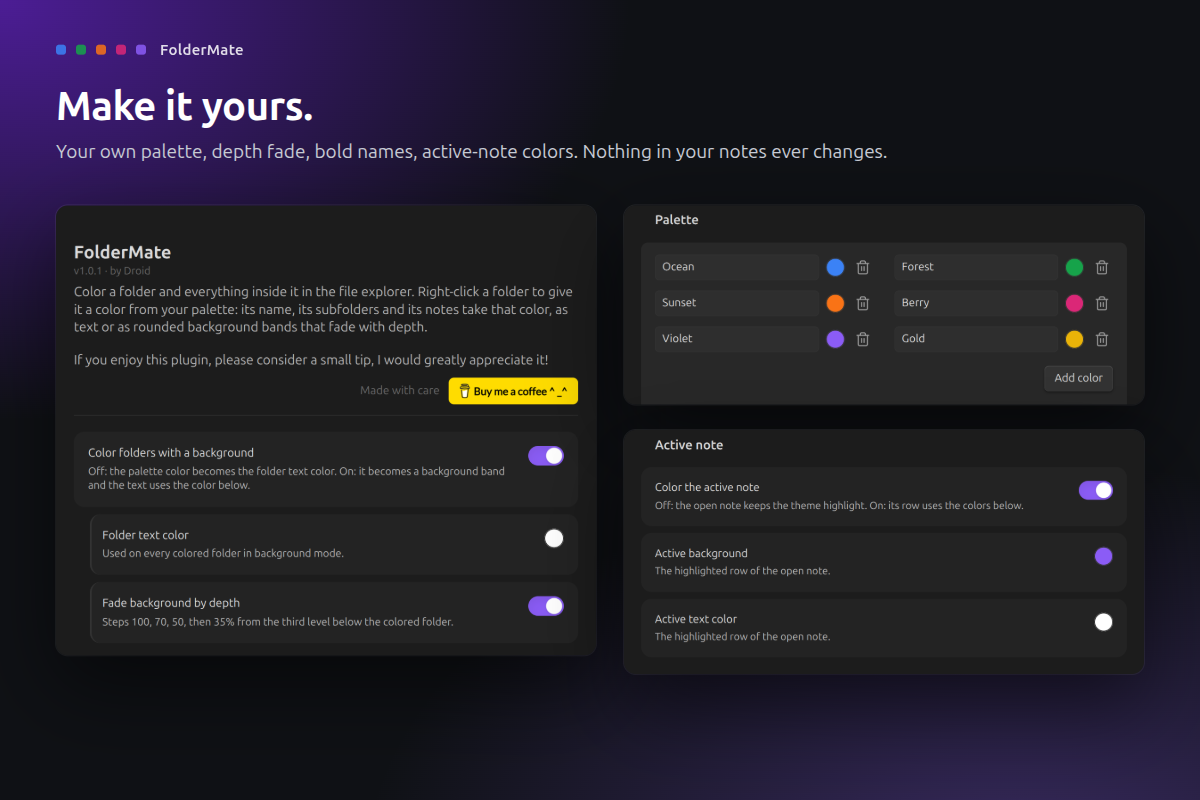
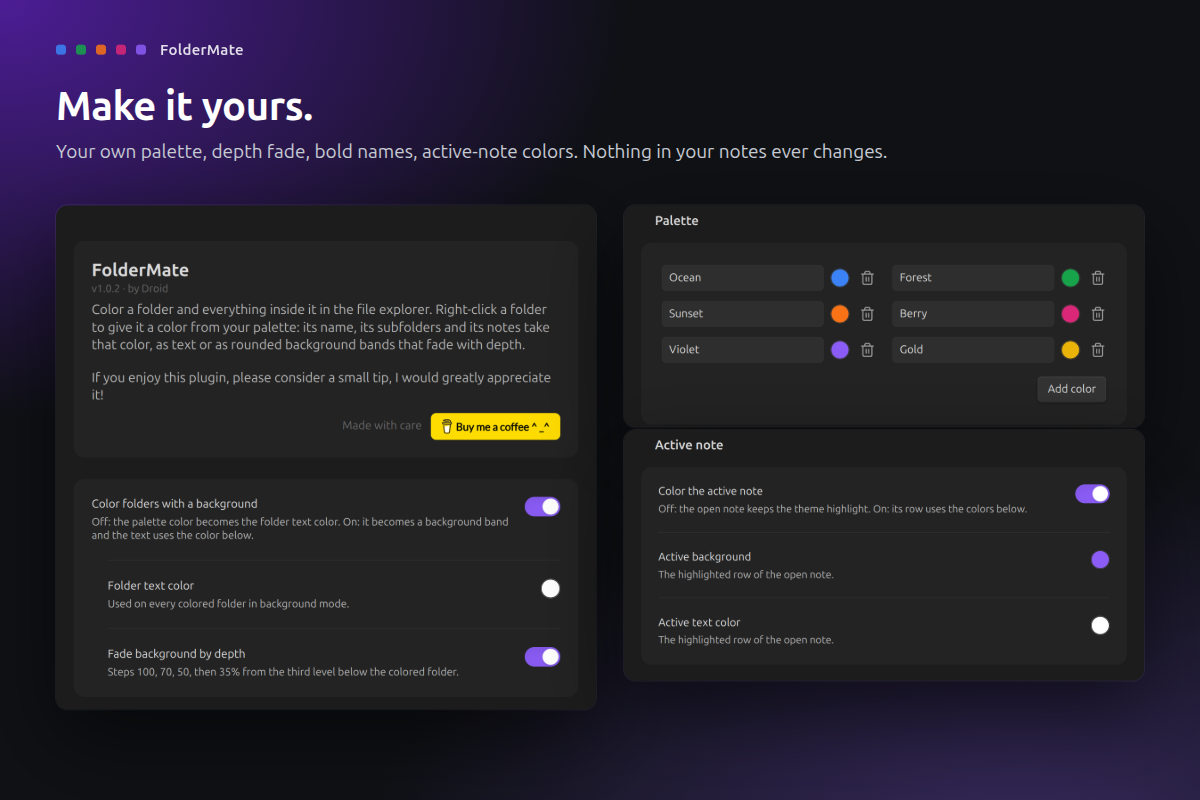
FolderMate 1.0.2: declarative settings, directory review fixes, attested releases

diff --git a/src/settings.ts b/src/settings.ts
@@ -1,6 +1,6 @@
-import { App, Modal, PluginSettingTab, Setting } from 'obsidian'
+import { App, Modal, PluginSettingTab, Setting, type SettingDefinitionItem } from 'obsidian'
 import type FolderMatePlugin from './main'
-import { addEntry, removeEntry, usageCount } from './core/settings'
+import { addEntry, removeEntry, usageCount, type TintSettings } from './core/settings'
 import { addHslPicker } from './hslPicker'
 import { COFFEE_BUTTON, COFFEE_URL } from './coffeeButton'
 
@@ -10,21 +10,77 @@ class ConfirmModal extends Modal {
     this.setTitle('Delete color?')
     this.contentEl.createEl('p', { text: this.msg })
     new Setting(this.contentEl)
-      .addButton(b => b.setButtonText('Delete').setWarning().onClick(() => { this.onYes(); this.close() }))
+      .addButton(b => b.setButtonText('Delete').setDestructive().onClick(() => { this.onYes(); this.close() }))
       .addButton(b => b.setButtonText('Cancel').onClick(() => this.close()))
   }
   onClose() { this.contentEl.empty() }
 }
 
+type Key = Exclude<keyof TintSettings, 'schemaVersion' | 'palette' | 'folderColors'> | 'background'
+
+// Declarative settings (Obsidian 1.13+), so every row shows up in Obsidian's settings search. Plain toggles and sliders are
+// `control` rows; rows with the color picker or an indent (tt-sub) are `render` rows built as before.
 export class TintSettingTab extends PluginSettingTab {
-  constructor(app: App, private plugin: FolderMatePlugin) { super(app, plugin) }
+  constructor(app: App, private plugin: FolderMatePlugin) { super(app, plugin); this.containerEl.addClass('tt-settings') }
 
-  display() {
-    const { containerEl: el } = this
+  getControlValue(key: string): unknown {
     const s = this.plugin.cfg
-    el.empty()
+    return key === 'background' ? s.colorMode === 'background' : s[key as keyof TintSettings]
+  }
 
-    // Header, the same layout as MindmapMate and LevelMate: name, version and author, what it does, tip line, coffee button.
+  setControlValue(key: string, value: unknown) {
+    const s = this.plugin.cfg as unknown as Record<string, unknown>
+    if (key === 'background') this.plugin.cfg.colorMode = value ? 'background' : 'text'
+    else s[key] = value
+    if (key === 'activeEnabled' && value) { this.plugin.cfg.activeBg ||= '#3B82F6'; this.plugin.cfg.activeText ||= '#FFFFFF' } // colors the pickers already show, so it works at once
+    this.plugin.changed()
+    this.refreshDomState() // shows, hides and grays out the rows that depend on this one
+  }
+
+  getSettingDefinitions(): SettingDefinitionItem<Key>[] {
+    const s = this.plugin.cfg
+    const changed = () => this.plugin.changed()
+    const picker = (name: string, desc: string, get: () => string, set: (v: string) => void, visible: () => boolean, sub = true) => ({
+      name, desc, visible,
+      render: (row: Setting) => { if (sub) row.setClass('tt-sub'); addHslPicker(row, get(), v => { set(v); changed() }) },
+    })
+    const bg = () => s.colorMode === 'background'
+
+    return [
+      { name: 'FolderMate', searchable: false, render: row => this.header(row) },
+      { type: 'group', items: [
+        { name: 'Color folders with a background', desc: 'Off: the palette color becomes the folder text color. On: it becomes a background band and the text uses the color below.', control: { type: 'toggle', key: 'background' } },
+        picker('Folder text color', 'Used on every colored folder in background mode.', () => s.textColor, v => { s.textColor = v }, bg),
+        { name: 'Fade background by depth', desc: 'Steps 100, 70, 50, then 35% from the third level below the colored folder.', visible: bg,
+          render: row => { row.setClass('tt-sub').addToggle(t => t.setValue(s.fadeEnabled).onChange(v => { s.fadeEnabled = v; changed() })) } },
+      ] },
+      { type: 'group', heading: 'Explorer', items: [
+        { name: 'Bold folder names', desc: 'Every folder name in the file explorer is shown in bold.', control: { type: 'toggle', key: 'boldFolders' } },
+        { name: 'Indent lines', desc: 'The thin vertical lines beside expanded folders. Off by default: the contents background shows what belongs where.', control: { type: 'toggle', key: 'guideLines' } },
+        { name: 'Indent line thickness', desc: 'How thick the indent lines are, 1 to 5 px. Grayed out while Indent lines is off.',
+          control: { type: 'slider', key: 'guideWidth', min: 1, max: 5, step: 1, displayFormat: v => `${v} px`, disabled: () => !s.guideLines } },
+        { name: 'Contents background opacity', desc: 'Everything inside a colored folder sits on one rounded block of its color, starting at the folder\'s own left edge, so you can see which notes belong to which folder. 0% turns it off. Grayed out while Indent lines is on (one or the other).',
+          control: { type: 'slider', key: 'fileAlpha', min: 0, max: 100, step: 5, displayFormat: v => `${v}%`, disabled: () => s.guideLines } },
+        { name: 'Color file names', desc: 'Off: file names use the theme text color. On: every file name in the explorer uses the color below (the open note keeps its Active note colors).', control: { type: 'toggle', key: 'fileTextEnabled' } },
+        picker('File text color', 'Used on every file name.', () => s.fileText, v => { s.fileText = v }, () => s.fileTextEnabled),
+        { name: 'Reveal the open note', desc: 'Each time a note opens, its folders expand in the file explorer and it scrolls into view.', control: { type: 'toggle', key: 'revealActive' } },
+      ] },
+      { type: 'group', heading: 'Active note', items: [
+        { name: 'Color the active note', desc: 'Off: the open note keeps the theme highlight. On: its row uses the colors below.', control: { type: 'toggle', key: 'activeEnabled' } },
+        picker('Active background', 'The highlighted row of the open note.', () => s.activeBg || '#3B82F6', v => { s.activeBg = v }, () => s.activeEnabled, false),
+        picker('Active text color', 'The highlighted row of the open note.', () => s.activeText || '#FFFFFF', v => { s.activeText = v }, () => s.activeEnabled, false),
+      ] },
+      { type: 'group', heading: 'Palette', items: [
+        { name: 'Palette', aliases: ['colors', 'add color'], render: row => this.palette(row) },
+      ] },
+    ]
+  }
+
+  // Header, the same layout as MindmapMate and LevelMate: name, version and author, what it does, tip line, coffee button.
+  private header(row: Setting) {
+    const el = row.settingEl
+    el.empty()
+    el.addClass('tt-about-row')
     const { version, author } = this.plugin.manifest
     const about = el.createDiv({ cls: 'tt-about' })
     about.createDiv({ cls: 'tt-about-name', text: 'FolderMate' })
@@ -37,72 +93,27 @@ export class TintSettingTab extends PluginSettingTab {
     footer.createSpan({ text: 'Made with care' })
     const coffee = footer.createEl('a', { cls: 'tt-coffee', href: COFFEE_URL, attr: { target: '_blank', rel: 'noopener', 'aria-label': 'Buy me a coffee' } })
     coffee.createEl('img', { attr: { src: COFFEE_BUTTON, alt: 'Buy me a coffee' } })
+  }
 
-    new Setting(el).setName('Color folders with a background')
-      .setDesc('Off: the palette color becomes the folder text color. On: it becomes a background band and the text uses the color below.')
-      .addToggle(t => t.setValue(s.colorMode === 'background').onChange(v => {
-        s.colorMode = v ? 'background' : 'text'
-        this.plugin.changed()
-        this.display()
-      }))
-
-    const bg = s.colorMode === 'background'
-    if (bg) { // dependent settings only exist while the background toggle is on, indented under it
-      const textRow = new Setting(el).setName('Folder text color').setDesc('Used on every colored folder in background mode.').setClass('tt-sub')
-      addHslPicker(textRow, s.textColor, v => { s.textColor = v; this.plugin.changed() })
-      new Setting(el).setName('Fade background by depth').setClass('tt-sub')
-        .setDesc('Steps 100, 70, 50, then 35% from the third level below the colored folder.')
-        .addToggle(t => t.setValue(s.fadeEnabled).onChange(v => { s.fadeEnabled = v; this.plugin.changed() }))
-    }
-
-    new Setting(el).setName('Explorer').setHeading()
-    new Setting(el).setName('Bold folder names').setDesc('Every folder name in the file explorer is shown in bold.')
-      .addToggle(t => t.setValue(s.boldFolders).onChange(v => { s.boldFolders = v; this.plugin.changed() }))
-    new Setting(el).setName('Indent lines').setDesc('The thin vertical lines beside expanded folders. Off by default: the contents background shows what belongs where.')
-      .addToggle(t => t.setValue(s.guideLines).onChange(v => { s.guideLines = v; this.plugin.changed(); this.display() }))
-    new Setting(el).setName('Indent line thickness').setDesc('How thick the indent lines are, 1 to 5 px. Grayed out while Indent lines is off.')
-      .addSlider(sl => sl.setLimits(1, 5, 1).setValue(s.guideWidth).setDynamicTooltip().onChange(v => { s.guideWidth = v; this.plugin.changed() }))
-      .setDisabled(!s.guideLines)
-      .setClass('tt-dim')
-    new Setting(el).setName('Contents background opacity').setDesc('Everything inside a colored folder sits on one rounded block of its color, starting at the folder\'s own left edge, so you can see which notes belong to which folder. 0% turns it off. Grayed out while Indent lines is on (one or the other).')
-      .addSlider(sl => sl.setLimits(0, 100, 5).setValue(s.fileAlpha).setDynamicTooltip().onChange(v => { s.fileAlpha = v; this.plugin.changed() }))
-      .setDisabled(s.guideLines) // after the slider, so it disables it too
-      .setClass('tt-dim')
-    new Setting(el).setName('Color file names').setDesc('Off: file names use the theme text color. On: every file name in the explorer uses the color below (the open note keeps its Active note colors).')
-      .addToggle(t => t.setValue(s.fileTextEnabled).onChange(v => { s.fileTextEnabled = v; this.plugin.changed(); this.display() }))
-    if (s.fileTextEnabled) addHslPicker(new Setting(el).setName('File text color').setDesc('Used on every file name.').setClass('tt-sub'), s.fileText, v => { s.fileText = v; this.plugin.changed() })
-    new Setting(el).setName('Reveal the open note').setDesc('Each time a note opens, its folders expand in the file explorer and it scrolls into view.')
-      .addToggle(t => t.setValue(s.revealActive).onChange(v => { s.revealActive = v; this.plugin.changed() }))
-
-    new Setting(el).setName('Active note').setHeading()
-    new Setting(el).setName('Color the active note')
-      .setDesc('Off: the open note keeps the theme highlight. On: its row uses the colors below.')
-      .addToggle(t => t.setValue(s.activeEnabled).onChange(v => {
-        s.activeEnabled = v
-        if (v) { s.activeBg ||= '#3B82F6'; s.activeText ||= '#FFFFFF' } // colors the pickers already show, so it works at once
-        this.plugin.changed()
-        this.display()
-      }))
-    if (s.activeEnabled) for (const [key, name] of [['activeBg', 'Active background'], ['activeText', 'Active text color']] as const) {
-      const row = new Setting(el).setName(name).setDesc('The highlighted row of the open note.')
-      addHslPicker(row, s[key] || (key === 'activeBg' ? '#3B82F6' : '#FFFFFF'), v => { s[key] = v; this.plugin.changed() })
-    }
-
-    new Setting(el).setName('Palette').setHeading()
-    const box = el.createDiv({ cls: 'tt-palette-box' }) // one shared background for every row and the Add button
+  // Palette editor: two columns of name, color and delete, then Add color, on one shared background.
+  private palette(row: Setting) {
+    const s = this.plugin.cfg
+    const el = row.settingEl
+    el.empty()
+    el.addClass('tt-palette-row')
+    const redraw = () => { this.plugin.changed(); this.palette(row) }
+    const box = el.createDiv({ cls: 'tt-palette-box' })
     const grid = box.createDiv({ cls: 'tt-palette' })
     for (const e of s.palette) {
-      const row = new Setting(grid)
-        .addText(t => t.setValue(e.name).onChange(v => { e.name = v; this.plugin.changed() }))
-      addHslPicker(row, e.color, v => { e.color = v; this.plugin.changed() })
-      row
-        .addExtraButton(b => b.setIcon('trash').setTooltip('Delete').onClick(() => {
-          const n = usageCount(s, e.id)
-          const del = () => { removeEntry(s, e.id); this.plugin.changed(); this.display() }
-          if (n) new ConfirmModal(this.app, `"${e.name}" is used by ${n} folder${n === 1 ? '' : 's'}. Deleting it removes the color from them.`, del).open()
-          else del()
-        }))
+      const r = new Setting(grid).addText(t => t.setValue(e.name).onChange(v => { e.name = v; this.plugin.changed() }))
+      addHslPicker(r, e.color, v => { e.color = v; this.plugin.changed() })
+      r.addExtraButton(b => b.setIcon('trash').setTooltip('Delete').onClick(() => {
+        const n = usageCount(s, e.id)
+        const del = () => { removeEntry(s, e.id); redraw() }
+        if (n) new ConfirmModal(this.app, `"${e.name}" is used by ${n} folder${n === 1 ? '' : 's'}. Deleting it removes the color from them.`, del).open()
+        else del()
+      }))
     }
-    new Setting(box).addButton(b => b.setButtonText('Add color').onClick(() => { addEntry(s); this.plugin.changed(); this.display() }))
+    new Setting(box).addButton(b => b.setButtonText('Add color').onClick(() => { addEntry(s); redraw() }))
   }
 }

diff --git a/src/styles.css b/src/styles.css
@@ -40,11 +40,11 @@ body .nav-files-container .nav-folder.tt-block > .nav-folder-children::before {
   content: ''; position: absolute; top: 0; bottom: 2px; left: var(--tt-block-left); right: 0;
   border-radius: 6px; pointer-events: none; background: color-mix(in srgb, var(--tt-block-bg) var(--tt-block-alpha), var(--background-secondary));
 }
-body.tt-noguides .nav-files-container .nav-folder-children { border-inline-start-color: transparent !important; }
+body.tt-noguides .nav-files-container .nav-folder .nav-folder-children { border-inline-start-color: transparent; }
 /* Indent lines: thickness is an inset shadow in the line's own color (the border keeps its width so rows never shift), and a colored
    folder's line starts at the bottom of its band, through the 2px gap, so the two connect. */
 body:not(.tt-noguides) .nav-files-container .nav-folder-children { box-shadow: inset var(--tt-line-w, 0px) 0 0 var(--nav-indentation-guide-color); }
-body:not(.tt-noguides) .nav-files-container .nav-folder:has(> .nav-folder-title.tt-bg) > .nav-folder-children { margin-top: -2px; padding-top: 2px; }
+body:not(.tt-noguides) .nav-files-container .nav-folder.tt-banded > .nav-folder-children { margin-top: -2px; padding-top: 2px; }
 /* File names (setting "File text color"); the open note keeps its own row colors. */
 body.tt-file-text .nav-files-container .nav-file-title:not(.is-active),
 body.tt-file-text .nav-files-container .nav-file-title:not(.is-active) .nav-file-title-content { color: var(--tt-file-text); }
@@ -61,19 +61,21 @@ body.tt-file-text .nav-files-container .nav-file-title:not(.is-active) .nav-file
 .tt-row { display: flex; align-items: center; gap: 4px; }
 .tt-color .tt-hex { width: 96px; font-family: var(--font-monospace); }
 .tt-color .tt-hsl-track { -webkit-appearance: none; appearance: none; width: 100%; height: 12px; margin: 0; border-radius: 6px; box-shadow: inset 0 0 0 1px var(--background-modifier-border); }
-/* Obsidian's own slider rules (input[type=range]::-webkit-slider-thumb, plus :hover and :active) outrank a class: they lifted the knob by
-   --slider-thumb-y (meant for its 6px track) and thinned the track. Pinned with !important: Obsidian's white knob, centred on the 12px track. */
-input.tt-hsl-track::-webkit-slider-runnable-track { background: transparent !important; height: 12px !important; }
-input.tt-hsl-track::-webkit-slider-thumb {
-  -webkit-appearance: none; box-sizing: border-box; width: 18px !important; height: 18px !important; margin-top: -3px !important; top: 0 !important;
-  border-radius: 50%; cursor: pointer;
+/* Obsidian sizes and lifts its slider knob through variables (meant for its 6px track); set them here so its white knob sits centred
+   on the 12px track, also while hovered or dragged. */
+.tt-color input.tt-hsl-track {
+  --slider-thumb-width: 18px; --slider-thumb-height: 18px; --slider-thumb-width-active: 18px; --slider-thumb-height-active: 18px;
+  --slider-thumb-y: -3px; --slider-thumb-y-active: -3px; --slider-thumb-radius: 50%;
 }
+.tt-color input.tt-hsl-track::-webkit-slider-runnable-track { background: transparent; height: 12px; }
+.tt-color input.tt-hsl-track::-webkit-slider-thumb { box-sizing: border-box; cursor: pointer; }
 .tt-color .tt-reset { display: flex; align-items: center; justify-content: center; width: 28px; height: 28px; padding: 0; margin-left: auto; background: transparent; box-shadow: none; color: var(--text-muted); cursor: pointer; }
 .tt-color .tt-reset:hover { background: var(--background-modifier-hover); color: var(--text-normal); }
 
-/* Active note row (user colors; classes are set on <body> only when a color is chosen). Obsidian's reveal flash (yellow, !important) would show first, so it is overridden here. */
+/* Active note row (user colors; classes are set on <body> only when a color is chosen). Obsidian's reveal flash paints --text-highlight-bg
+   (yellow) and would show first, so that variable takes the active color on the active row. */
 body:is(.tt-active-bg, .tt-active-text) .nav-files-container .tree-item-self.is-active { animation: none; transition: none; }
-body.tt-active-bg .nav-files-container .tree-item-self.is-active.is-flashing:not(.tt-bg) { background-color: var(--tt-active-bg) !important; mix-blend-mode: normal; }
+body.tt-active-bg .nav-files-container .tree-item-self.is-active.is-flashing:not(.tt-bg) { --text-highlight-bg: var(--tt-active-bg); --highlight-mix-blend-mode: normal; }
 body.tt-active-bg .nav-files-container .tree-item-self.is-active:not(.tt-bg) { background-color: var(--tt-active-bg); }
 body.tt-active-text .nav-files-container .tree-item-self.is-active:not(.tt-text),
 body.tt-active-text .nav-files-container .tree-item-self.is-active:not(.tt-text) .tree-item-inner { color: var(--tt-active-text); }
@@ -94,8 +96,15 @@ body.tt-active-text .nav-files-container .tree-item-self.is-active:not(.tt-text)
 .tt-palette-box > .setting-item { margin-top: 4px; }
 .tt-palette { display: grid; grid-template-columns: 1fr 1fr; gap: 0 8px; }
 .tt-palette .setting-item { margin: 0; }
-.tt-dim.is-disabled { opacity: 0.45; } /* grayed out: the theme alone barely shows it */
+.tt-settings .setting-item.is-disabled { opacity: 0.45; } /* grayed out: the theme alone barely shows it */
 .tt-sub { margin-inline-start: 18px; padding-inline-start: 12px; border-inline-start: 2px solid var(--background-modifier-border); }
 .tt-palette .setting-item-info { display: none; }
 .tt-palette .setting-item-control { justify-content: flex-start; }
 .tt-palette .setting-item-control input[type=text] { flex: 1; min-width: 0; }
+/* Header and palette are whole rows inside Obsidian's setting groups (declarative settings): the group card is their box, so they
+   drop their own border and background, and the palette's inner rows lose the group's padding and divider lines. */
+.tt-settings .setting-item.tt-about-row, .tt-settings .setting-item.tt-palette-row { display: block; }
+.tt-settings .tt-about-row .tt-about { margin: 0; padding: 0; border: 0; }
+.tt-settings .tt-palette-row .tt-palette-box { padding: 0; background: none; }
+.tt-settings .setting-group .tt-palette-box .setting-item { padding: 6px 4px; }
+.tt-settings .setting-group .tt-palette-box .setting-item::before { content: none; }

diff --git a/src/renderer.ts b/src/renderer.ts
@@ -40,7 +40,7 @@ export class Renderer {
 
   private schedule() {
     if (this.frame) return
-    this.frame = requestAnimationFrame(() => { this.frame = 0; for (const el of this.observers.keys()) this.paint(el) })
+    this.frame = window.requestAnimationFrame(() => { this.frame = 0; for (const el of this.observers.keys()) this.paint(el) })
   }
 
   // Explorer-wide settings and active-note colors go on <body>; styles.css reads the colors only while their class is set.
@@ -81,6 +81,7 @@ export class Renderer {
         row.style.setProperty('--tt-color', hex)
       } else {
         row.classList.add('tt-text', 'tt-bg')
+        row.parentElement?.classList.add('tt-banded') // styles.css: the indent line joins the band
         row.style.setProperty('--tt-left', left + 'px')
         row.style.setProperty('--tt-color', text)
         row.style.setProperty('--tt-bg', hex)
@@ -114,6 +115,7 @@ export class Renderer {
 
   private clear(row: HTMLElement, forget = true) {
     row.classList.remove(...CLASSES)
+    if (row.matches(ROW)) row.parentElement?.classList.remove('tt-banded')
     if (row.matches(ROW) && forget) { row.parentElement?.style.removeProperty(GUIDE); this.noBlock(row.parentElement) }
     for (const p of PROPS) row.style.removeProperty(p)
     if (forget) this.sig.delete(row)
@@ -123,7 +125,7 @@ export class Renderer {
   stop() {
     document.body.classList.remove('tt-active-bg', 'tt-active-text', 'tt-bold', 'tt-noguides', 'tt-file-text')
     for (const p of ['--tt-active-bg', '--tt-active-text', '--tt-file-text', '--tt-line-w']) document.body.style.removeProperty(p)
-    cancelAnimationFrame(this.frame)
+    window.cancelAnimationFrame(this.frame)
     this.frame = 0
     for (const [el, ob] of this.observers) {
       ob.disconnect()

diff --git a/docs/release-notes.md b/docs/release-notes.md
@@ -2,6 +2,13 @@
 
 Newest first. Plugin settings do not show this list; it lives here (and on the USB) and on the plugin's details page.
 
+## 1.0.2
+- **Settings are searchable:** FolderMate's settings now show up when you search in Obsidian's Settings (for example "indent line"). Needs Obsidian 1.13 or later.
+- **Works in pop-out windows:** explorer colors repaint correctly in Obsidian's pop-out windows too.
+- **Cleaner styles:** the styles no longer force-override Obsidian's own (no `!important`, no slow `:has` selector). They set Obsidian's own style values instead, so themes have an easier time and the explorer redraws faster.
+- **Signed releases:** each release is now built on GitHub and comes with a provenance attestation, which proves the files were built from this repository's code.
+- **Up to date with Obsidian's API:** replaced deprecated calls flagged by the community directory review.
+
 ## 1.0.1
 - **Ready for the community directory:** the plugin ID is now `foldermate` (was `tint-tree`), to match its name. If you installed an earlier build, rename `.obsidian/plugins/tint-tree` to `foldermate` and turn the plugin on again. Your colors and settings come along.
 - **Support link:** the manifest now carries the Buy Me a Coffee link, so Obsidian shows a support button on the plugin's page.

diff --git a/README.md b/README.md
@@ -16,6 +16,7 @@ A big vault turns the file explorer into a wall of identical grey rows. FolderMa
 - **Notes sit on their folder's color.** An optional soft block behind a folder's contents shows what belongs where.
 - **Make it yours.** Your own palette, depth fade, bold folder names, indent lines, file name color and active-note colors.
 - **Works with light and dark themes.**
+- **Searchable settings.** Find any FolderMate option from Obsidian's settings search.
 
 ![Right-click a folder, pick a color](docs/images/2-right-click.png)
 
@@ -40,7 +41,8 @@ If you use another plugin that colors the file explorer, turn it off. Both would
 - **No network, no telemetry.** It also has no runtime dependencies.
 - **Folder paths only.** It reads folder paths and never opens a note's contents.
 - **Checked colors.** A color must be a valid `#RRGGBB` value before it reaches the page.
-- **Desktop only.**
+- **Desktop only.** Needs Obsidian 1.13 or later.
+- **Signed releases.** Every release is built by GitHub Actions from this repository and carries a [build provenance attestation](https://docs.github.com/en/actions/security-for-github-actions/using-artifact-attestations).
 
 ## Support
 
